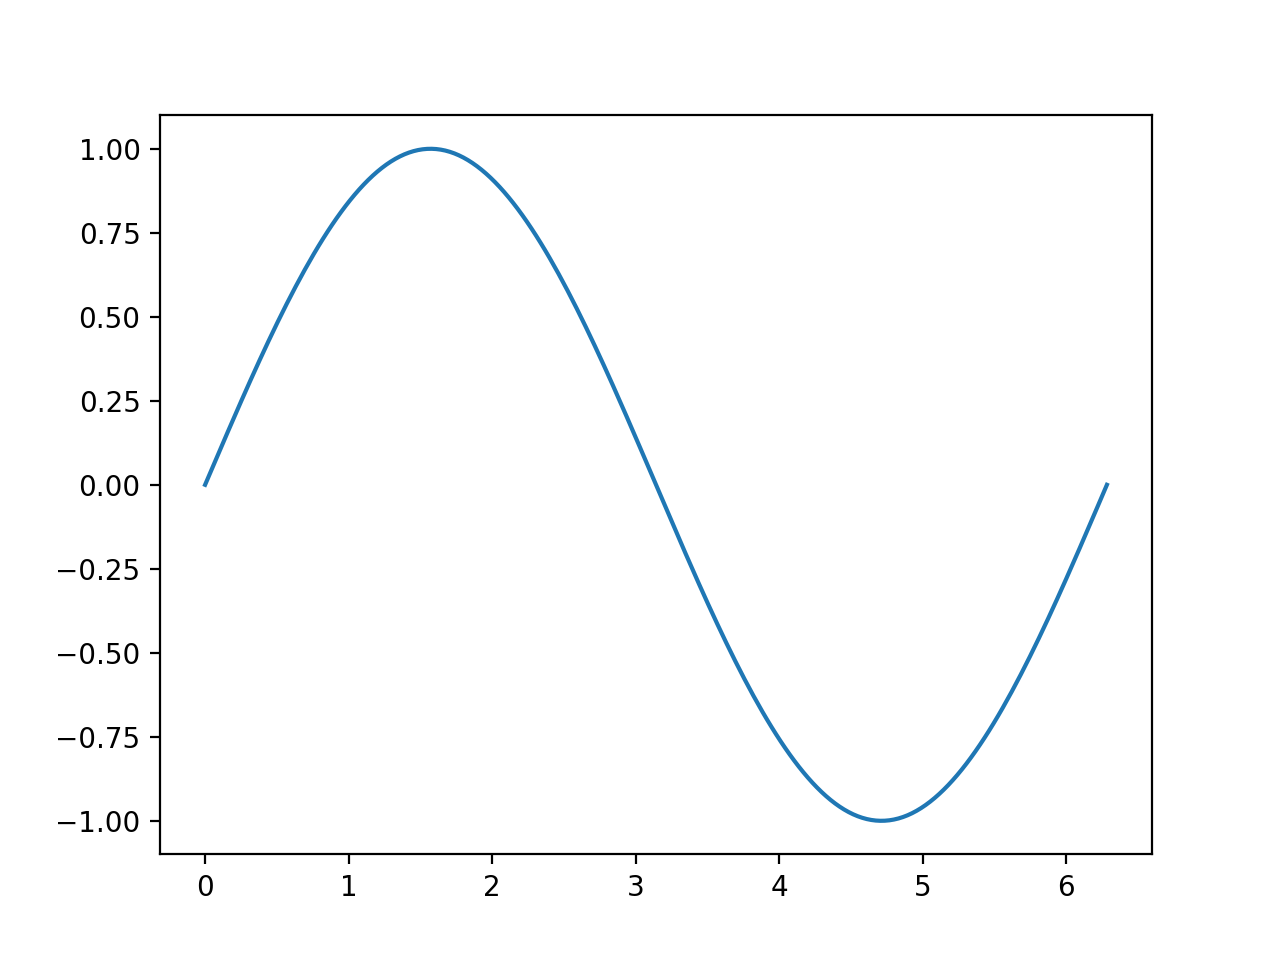
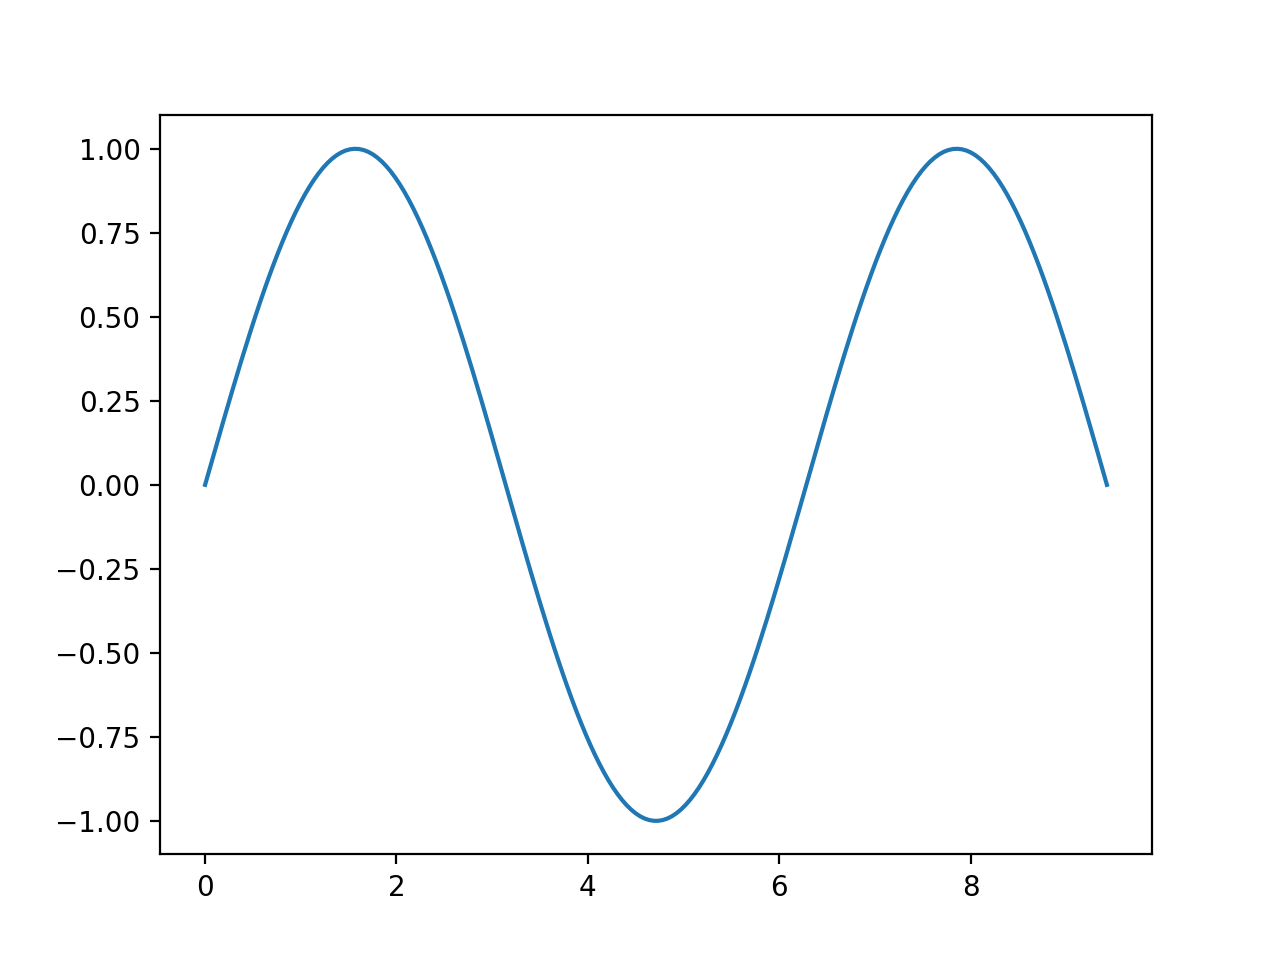
add panel and auto plot refresh

diff --git a/bl_app_grapher/addons/grapher/ui.py b/bl_app_grapher/addons/grapher/ui.py
@@ -2,7 +2,28 @@ import bpy
 from typing import Any
 
 #
-# draw topbar (file/window menus)
+# properties panel
+#
+
+class GrapherPanel(bpy.types.Panel):
+    """Creates a Panel in the Object properties window"""
+    bl_label = 'Grapher Properties'
+    bl_idname = 'GRAPHER_PT_panel'
+    bl_space_type = 'PROPERTIES'
+    bl_region_type = 'WINDOW'
+    bl_context = 'object'
+
+    def draw(self, context):
+        layout = self.layout
+
+        row = layout.row()
+        row.prop(context.scene, 'grapher_n')
+
+        row = layout.row()
+        row.operator('grapher.refresh_plot')
+
+#
+# topbar (file/window menus)
 #
 
 class MV_TOPBAR_MT_file_menu(bpy.types.Menu):
@@ -12,7 +33,6 @@ class MV_TOPBAR_MT_file_menu(bpy.types.Menu):
     def draw(self, context: bpy.types.Context) -> None:
         row = self.layout.row(align=True)
         row.operator('wm.quit_blender', text='Quit', icon='QUIT')
-
 
 class MV_TOPBAR_MT_window_menu(bpy.types.Menu):
     bl_idname = 'MV_TOPBAR_MT_window_menu'
@@ -31,7 +51,7 @@ def topbar_menu_draw(self: Any, context: bpy.types.Context) -> None:
 # registration
 #
 
-classes = [MV_TOPBAR_MT_file_menu, MV_TOPBAR_MT_window_menu]
+classes = [MV_TOPBAR_MT_file_menu, MV_TOPBAR_MT_window_menu, GrapherPanel]
 
 def register():
     for cls in classes:

diff --git a/bl_app_grapher/__init__.py b/bl_app_grapher/__init__.py
@@ -1,22 +1,3 @@
-# ##### BEGIN GPL LICENSE BLOCK #####
-#
-#  This program is free software; you can redistribute it and/or
-#  modify it under the terms of the GNU General Public License
-#  as published by the Free Software Foundation; either version 2
-#  of the License, or (at your option) any later version.
-#
-#  This program is distributed in the hope that it will be useful,
-#  but WITHOUT ANY WARRANTY; without even the implied warranty of
-#  MERCHANTABILITY or FITNESS FOR A PARTICULAR PURPOSE.  See the
-#  GNU General Public License for more details.
-#
-#  You should have received a copy of the GNU General Public License
-#  along with this program; if not, write to the Free Software Foundation,
-#  Inc., 51 Franklin Street, Fifth Floor, Boston, MA 02110-1301, USA.
-#
-# ##### END GPL LICENSE BLOCK #####
-
-# <pep8-80 compliant>
 import os
 
 import bpy
@@ -129,7 +110,9 @@ def ui_overrides(_: None):
 
 @persistent
 def init_grapher(_):
-    bpy.ops.grapher.generate_example_plot()
+    updater = lambda self, ctx: bpy.ops.grapher.refresh_plot()
+    bpy.types.Scene.grapher_n = bpy.props.IntProperty(name='n', description='modify graph n value', default=2, update=updater)
+    bpy.ops.grapher.refresh_plot()
 
 load_post_handlers = [ui_overrides, init_grapher]
 

diff --git a/bl_app_grapher/addons/grapher/ops.py b/bl_app_grapher/addons/grapher/ops.py
@@ -3,17 +3,17 @@ from typing import Set
 from .util import TMP_PNG_PATH, example_plot, get_context_for_area
 
 
-class generate_example_plot(bpy.types.Operator):
-    bl_idname = 'grapher.generate_example_plot'
-    bl_label = 'Example plot'
-    bl_description = 'Creates an example plot and displays it'
+class refresh_plot(bpy.types.Operator):
+    bl_idname = 'grapher.refresh_plot'
+    bl_label = 'Refresh plot'
+    bl_description = 'Refreshes the plot image'
 
     @classmethod
     def poll(cls, _) -> bool:
         return True
 
     def execute(self, context: bpy.types.Context) -> Set[str]:
-        example_plot()
+        example_plot(context.scene.grapher_n)
         image = bpy.data.images.load(TMP_PNG_PATH)
 
         for area in context.screen.areas:
@@ -31,7 +31,7 @@ class generate_example_plot(bpy.types.Operator):
 #
 
 
-classes = [generate_example_plot]
+classes = [refresh_plot]
 
 def register():
     for cls in classes:

diff --git a/bl_app_grapher/addons/grapher/util.py b/bl_app_grapher/addons/grapher/util.py
@@ -1,12 +1,12 @@
 import bpy
-
-from io import BytesIO
-import matplotlib.pyplot as plt
-import numpy as np
-import PIL
 from io import BytesIO
 from pathlib import Path 
 from typing import Dict
+
+import matplotlib.pyplot as plt
+import numpy as np
+import PIL
+
 
 TMP_PNG_PATH = (Path(__file__).parent / 'grapher.tmp.png').as_posix()
 
@@ -27,11 +27,10 @@ def get_context_for_area(area: bpy.types.Area, region_type='WINDOW') -> Dict:
             return ctx
 
     return {}
+0
 
-
-def example_plot():
-    print('example_plot()')
-    col = np.linspace(0, 2 * np.pi, 200)
+def example_plot(n=2):
+    col = np.linspace(0, n * np.pi, 200)
     row = np.sin(col)
 
     fig, ax = plt.subplots()
